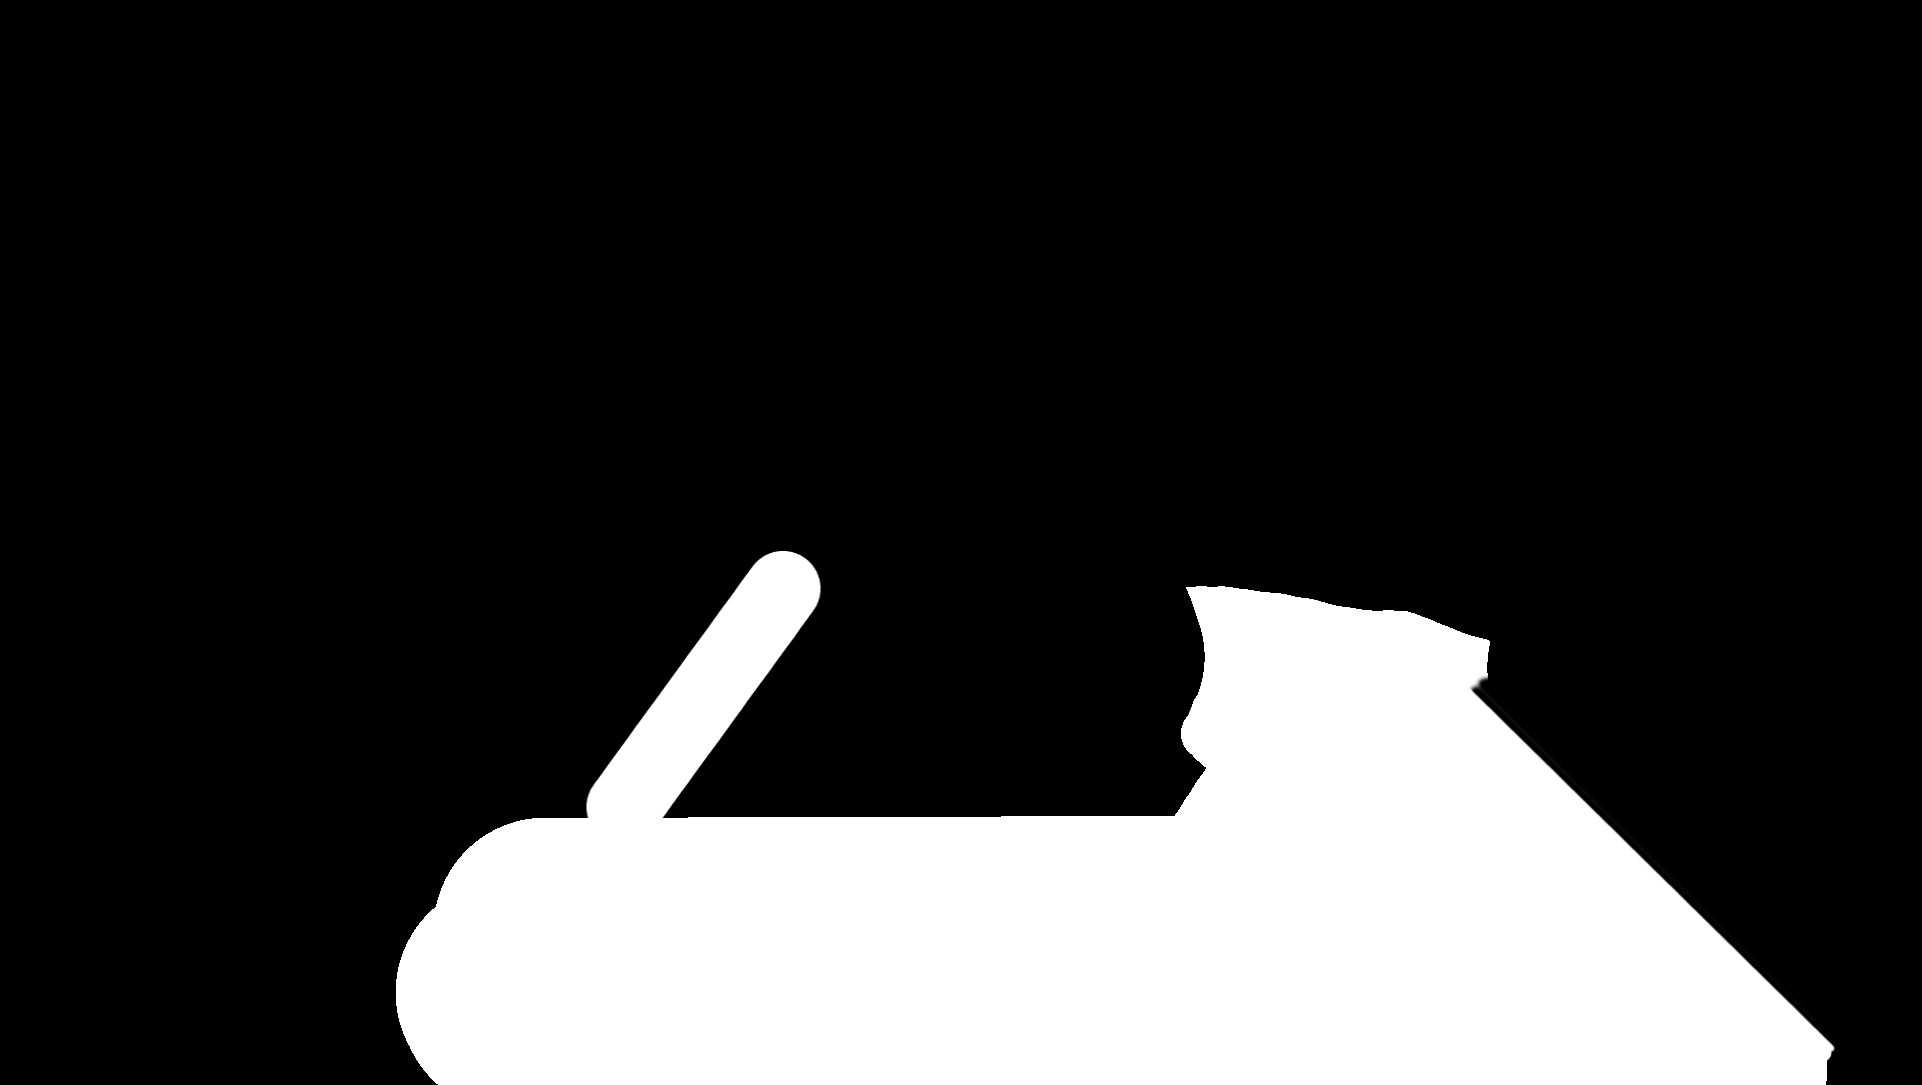
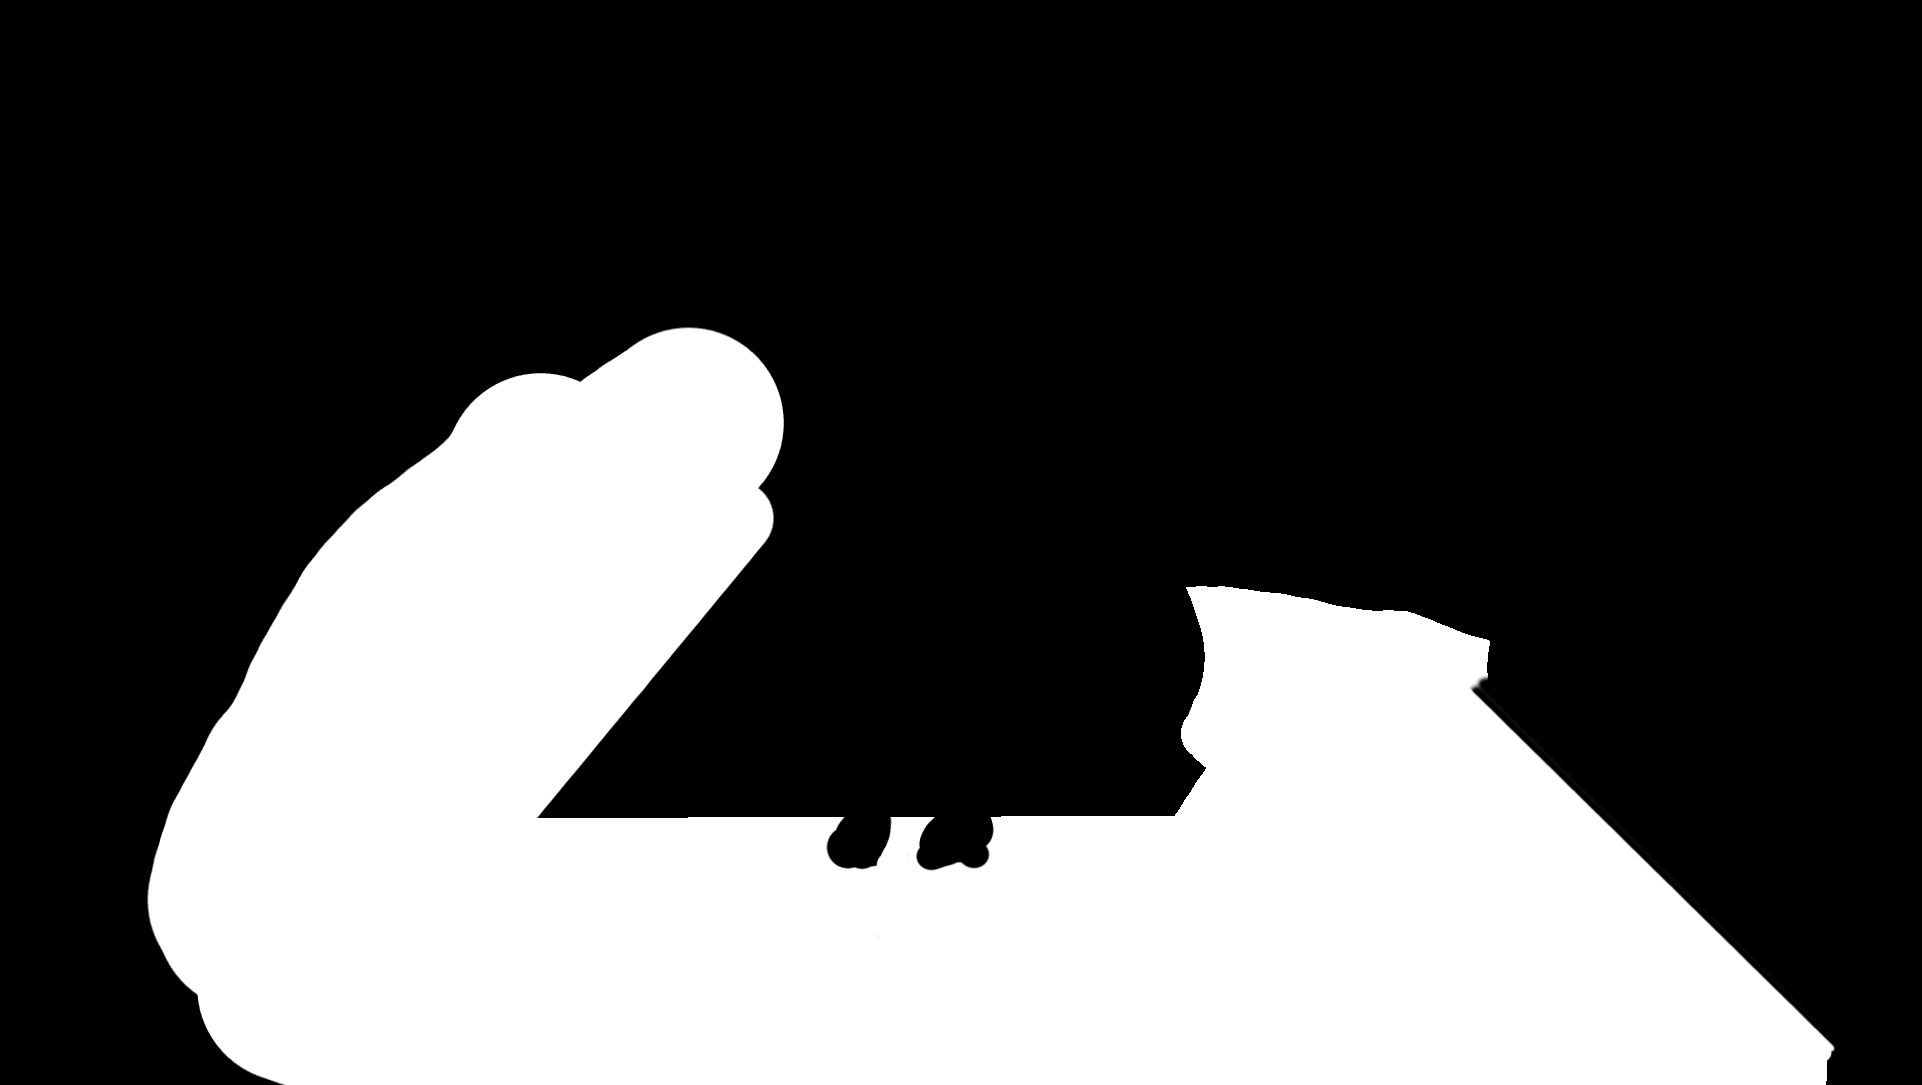
cat player

Changed region(s): [[0.0624, 0.3041, 0.437, 1.0], [0.4058, 0.73, 0.5307, 0.8212]]

diff --git a/src/components/Cat.jsx b/src/components/Cat.jsx
@@ -4,12 +4,13 @@ import DropDown from "./DropDown";
 import petgirl from "./petgirl.svg";
 import playgirl from "./playgirl.svg";
 import builtgirl from "./builtgirl.svg";
+import feedgirl from "./feedgirl.svg";
 
 class Cat extends Component {
   state = {
     img: cat,
     menuOpen: false,
-    playerImage: builtgirl
+    playerAction: builtgirl
   };
 
   showDropDown() {
@@ -22,28 +23,49 @@ class Cat extends Component {
 
   render() {
     const { position, menuOpen, onClick, catInteraction, hasPlayer } = this.props;
-    if (!hasPlayer && this.state.playerImage != builtgirl) this.setState({playerImage: builtgirl})
+    let playerImage, playerPostion
+    if (!hasPlayer && this.state.playerAction != "none") this.setState({ playerAction: "none" })
+
+    switch (this.state.playerAction) {
+      case "pet":
+        playerImage = petgirl
+        playerPostion = "-100% 30%"
+        break;
+      case "feed":
+        playerImage = feedgirl
+        break;
+      case "play":
+        playerImage = playgirl
+        break;
+      case "none":
+        break;
+
+    }
+
     let playerStyles = {
-      backgroundImage: hasPlayer ? `url(${this.state.playerImage})` : "none"
+      backgroundImage: hasPlayer ? `url(${playerImage})` : "none",
+      backgroundPosition: playerPostion
     }
     let dropDownOptions = [
       {
         caption: "streicheln",
         action: () => {
           catInteraction("pet");
-          this.setState({playerImage: petgirl})
+          this.setState({ playerAction: "pet" })
         }
       },
       {
         caption: "füttern",
         action: () => {
           catInteraction("feed");
+          this.setState({ playerAction: "feed" })
         }
       },
       {
         caption: "spielen",
         action: () => {
           catInteraction("play");
+          this.setState({ playerAction: "play" })
         }
       }
     ];
